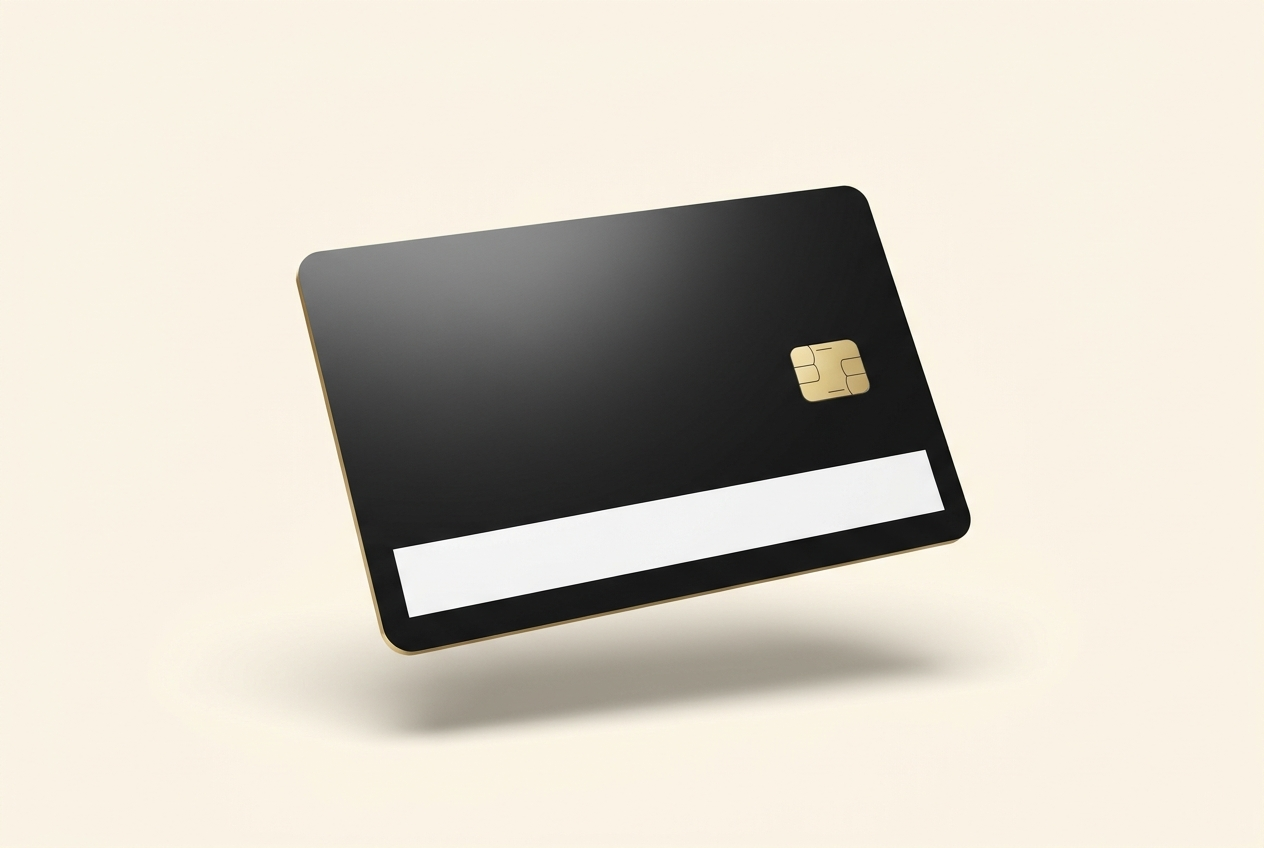
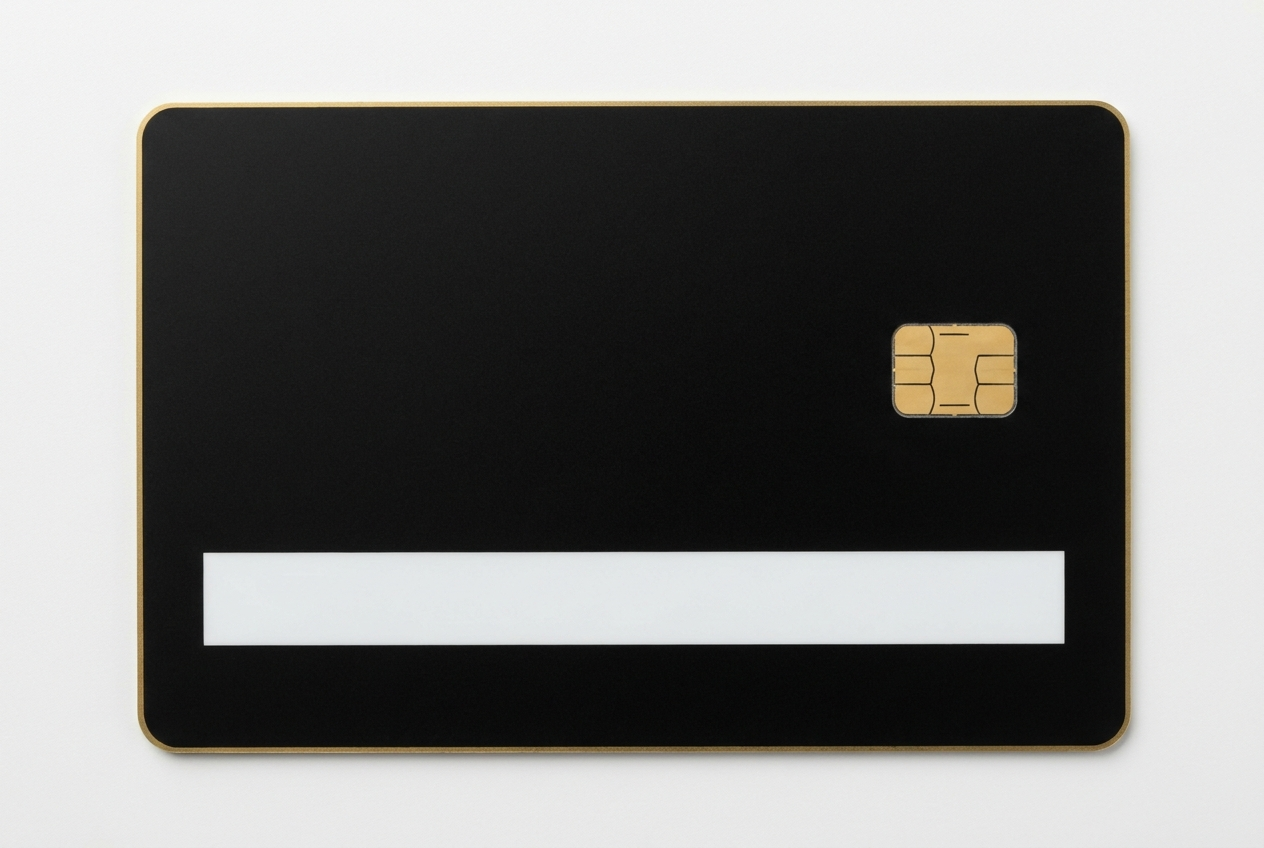
CX-WALLET: PNG loyalty card (flat front-on) + wallet-bg hero
Replace pure-CSS card with loyalty-card-bg.png (flat, front-on).
backgroundSize 114% auto crops the ~7% white padding from all sides;
overflow:hidden + borderRadius clips card to container edges.
Text overlays (bizName, name, $bal·tier, barcode) positioned
absolutely on card face. Hero switched to wallet-bg.png (blurred café
photo) matching the ref. -8deg tilt matches ref.

diff --git a/src/app/[slug]/wallet/WalletClient.tsx b/src/app/[slug]/wallet/WalletClient.tsx
@@ -112,22 +112,7 @@ function IconGift({ color = '#fff' }: { color?: string }) {
   )
 }
 
-// ── EMV chip SVG ─────────────────────────────────────────────────────────────
-
-function ChipSVG() {
-  return (
-    <svg width="36" height="28" viewBox="0 0 36 28" fill="none" style={{ display: 'block' }}>
-      <rect x="0.5" y="0.5" width="35" height="27" rx="3.5" fill="#c8a542" stroke="#9a7a2a" strokeWidth="0.5"/>
-      <line x1="0.5" y1="9" x2="35.5" y2="9" stroke="#9a7a2a" strokeWidth="0.5"/>
-      <line x1="0.5" y1="19" x2="35.5" y2="19" stroke="#9a7a2a" strokeWidth="0.5"/>
-      <line x1="12" y1="0.5" x2="12" y2="27.5" stroke="#9a7a2a" strokeWidth="0.5"/>
-      <line x1="24" y1="0.5" x2="24" y2="27.5" stroke="#9a7a2a" strokeWidth="0.5"/>
-      <rect x="12" y="9" width="12" height="10" fill="rgba(0,0,0,0.12)"/>
-    </svg>
-  )
-}
-
-// ── Flat CSS loyalty card — dark + gold edge + chip + white barcode strip ─────
+// ── PNG loyalty card — loyalty-card-bg.png (flat front-on) + text overlays ───
 
 function LoyaltyCard({ bizName, name, tier, walletBal, identityId }: {
   bizName: string
@@ -140,66 +125,74 @@ function LoyaltyCard({ bizName, name, tier, walletBal, identityId }: {
     : tier === 'silver' || tier === 'Silver' ? 'Silver' : 'Member'
 
   return (
-    <div style={{ padding: '0 2px' }}>
-      <div style={{ transform: 'rotate(-5deg)', transformOrigin: 'center center' }}>
+    <div style={{ padding: '0 4px' }}>
+      {/* -8° tilt matches ref */}
+      <div style={{ transform: 'rotate(-8deg)', transformOrigin: 'center center' }}>
+        {/* Container crops the ~7% white padding from the PNG via overflow:hidden */}
         <div style={{
-          background: 'linear-gradient(145deg, #1f1d1b 0%, #141210 60%, #111 100%)',
-          borderRadius: 22,
-          border: '1.5px solid rgba(180,145,60,0.5)',
-          boxShadow: '0 24px 60px rgba(0,0,0,0.55), 0 8px 24px rgba(0,0,0,0.3), inset 0 1px 0 rgba(255,255,255,0.06)',
-          padding: '24px 22px 0',
           position: 'relative',
+          borderRadius: 22,
           overflow: 'hidden',
+          aspectRatio: '1.586',
+          boxShadow: '0 28px 64px rgba(0,0,0,0.6), 0 8px 24px rgba(0,0,0,0.35)',
           userSelect: 'none',
         }}>
+          {/* Card PNG — backgroundSize 114% auto crops ~7% white on each horizontal side;
+              backgroundPosition center splits the vertical overflow equally, also cropping
+              the ~8% top/bottom white padding */}
+          <div style={{
+            position: 'absolute', inset: 0,
+            backgroundImage: 'url(/menu/_lib/cx/loyalty-card-bg.png)',
+            backgroundSize: '114% auto',
+            backgroundPosition: 'center',
+            backgroundRepeat: 'no-repeat',
+          }} />
 
-          {/* EMV chip — top right */}
-          <div style={{ position: 'absolute', top: 20, right: 20 }}>
-            <ChipSVG />
+          {/* Business name — top left, before chip */}
+          <div style={{ position: 'absolute', top: '14%', left: '6%', right: '36%', zIndex: 1 }}>
+            <span style={{
+              fontFamily: FD, fontStyle: 'italic',
+              fontSize: 22, fontWeight: 500, color: '#fff',
+              textShadow: '0 1px 6px rgba(0,0,0,0.5)',
+              display: 'block', lineHeight: 1.1,
+            }}>
+              {bizName}
+            </span>
           </div>
-
-          {/* Business name */}
-          <span style={{
-            display: 'block', fontFamily: FD, fontStyle: 'italic',
-            fontSize: 23, fontWeight: 500, color: '#fff', lineHeight: 1.1,
-            textShadow: '0 1px 8px rgba(0,0,0,0.5)',
-          }}>
-            {bizName}
-          </span>
 
           {/* Customer name */}
-          <span style={{
-            display: 'block', fontFamily: FB, fontSize: 15, fontWeight: 400,
-            color: 'rgba(255,255,255,0.85)', marginTop: 10,
-          }}>
-            {name ?? 'Member'}
-          </span>
-
-          {/* Balance + tier */}
-          <div style={{ display: 'flex', alignItems: 'baseline', gap: 6, flexWrap: 'wrap', marginTop: 18 }}>
-            <span style={{ fontFamily: FB, fontSize: 30, fontWeight: 700, color: '#fff', lineHeight: 1 }}>
-              {'$' + walletBal.toFixed(2)}
-            </span>
-            <span style={{ fontFamily: FB, fontSize: 12, color: 'rgba(255,255,255,0.45)' }}>
-              balance ·
-            </span>
-            <span style={{ fontFamily: FB, fontSize: 14, fontWeight: 700, color: ACCENT }}>
-              {tierLabel}
+          <div style={{ position: 'absolute', top: '33%', left: '6%', zIndex: 1 }}>
+            <span style={{ fontFamily: FB, fontSize: 15, fontWeight: 500, color: 'rgba(255,255,255,0.88)' }}>
+              {name ?? 'Member'}
             </span>
           </div>
 
-          {/* White magnetic stripe + barcode — full width, flush to card edges */}
-          <div style={{
-            marginTop: 20, marginLeft: -22, marginRight: -22,
-            background: '#fff', height: 56,
-            display: 'flex', alignItems: 'center',
-            padding: '0 18px', overflow: 'hidden',
-          }}>
-            {identityId
-              ? <BarcodeVisual code={identityId} />
-              : <div style={{ flex: 1, height: '55%', background: 'rgba(0,0,0,0.12)', borderRadius: 2 }} />
-            }
+          {/* Balance + tier — above the white strip */}
+          <div style={{ position: 'absolute', top: '48%', left: '6%', zIndex: 1 }}>
+            <div style={{ display: 'flex', alignItems: 'baseline', gap: 5, flexWrap: 'nowrap' }}>
+              <span style={{ fontFamily: FB, fontSize: 26, fontWeight: 700, color: '#fff', lineHeight: 1 }}>
+                {'$' + walletBal.toFixed(2)}
+              </span>
+              <span style={{ fontFamily: FB, fontSize: 11, color: 'rgba(255,255,255,0.4)' }}>
+                balance ·
+              </span>
+              <span style={{ fontFamily: FB, fontSize: 12, fontWeight: 700, color: ACCENT }}>
+                {tierLabel}
+              </span>
+            </div>
           </div>
+
+          {/* Barcode inside the PNG's white strip */}
+          {identityId && (
+            <div style={{
+              position: 'absolute',
+              top: '63%', left: '5%', right: '5%', height: '13%',
+              display: 'flex', alignItems: 'center',
+              zIndex: 1,
+            }}>
+              <BarcodeVisual code={identityId} />
+            </div>
+          )}
         </div>
       </div>
     </div>
@@ -274,7 +267,7 @@ function TxnRow({ date, label, itemName, pts, amount, kind, bizName }: {
 
 // ── Main component ────────────────────────────────────────────────────────────
 
-export function WalletClient({ slug, bizId: _bizId, bizName, logoUrl: _logoUrl, topUpUrl, heroImageUrl }: {
+export function WalletClient({ slug, bizId: _bizId, bizName, logoUrl: _logoUrl, topUpUrl, heroImageUrl: _heroImageUrl }: {
   slug: string
   bizId: string
   bizName: string
@@ -350,14 +343,12 @@ export function WalletClient({ slug, bizId: _bizId, bizName, logoUrl: _logoUrl, 
         @keyframes cx-spin { to { transform: rotate(360deg) } }
       `}</style>
 
-      {/* ── Café photo strip — sits behind top of card ── */}
+      {/* ── Blurred café photo strip — matches wallet ref ── */}
       <div style={{
         position: 'relative', height: 200,
-        background: heroImageUrl
-          ? ('url(' + heroImageUrl + ') center / cover no-repeat, linear-gradient(160deg, #2a1a0e 0%, #111 100%)')
-          : 'linear-gradient(160deg, #2a1a0e 0%, #111 100%)',
+        background: 'url(/menu/_lib/cx/wallet-bg.png) center / cover no-repeat, linear-gradient(160deg, #3a2010 0%, #1a0d04 100%)',
       }}>
-        <div style={{ position: 'absolute', inset: 0, background: 'linear-gradient(to bottom, rgba(0,0,0,0.2) 0%, rgba(0,0,0,0.65) 100%)' }} />
+        <div style={{ position: 'absolute', inset: 0, background: 'linear-gradient(to bottom, rgba(0,0,0,0.15) 0%, rgba(0,0,0,0.55) 100%)' }} />
       </div>
 
       {/* ── Loyalty card — overlaps bottom of photo strip ── */}
